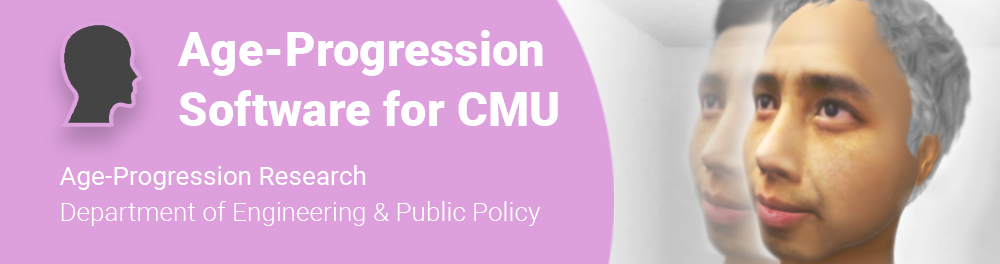
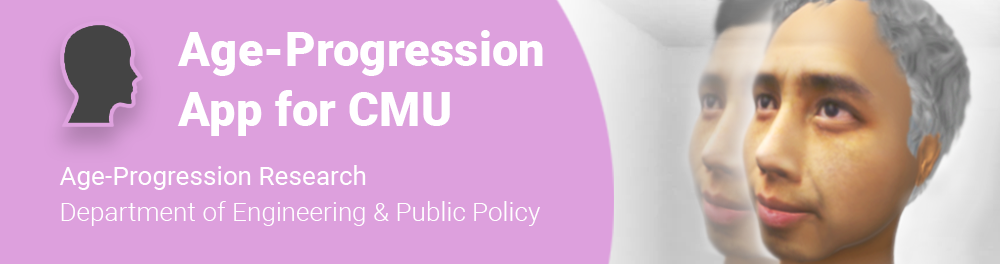
age done

Changed region(s): [[0.155, 0.3333, 0.558, 0.5152]]

diff --git a/work-age.html b/work-age.html
@@ -36,7 +36,7 @@
             <div class="work__header work__header--age">
                 <div>
                     <div class="divider"></div>
-                    <h1 class="header__work--main white">Age-Progression Research Software
+                    <h1 class="header__work--main white">Age-Progression Research App 
                     </h1>                                      
                     <h3 class="white">Department of Engineering & Public Policy, CMU</h4>  
                     <div class="divider"></div>                    
@@ -48,41 +48,31 @@
         <section class="section__home section__meta"> 
             <h1 class="header__work">My Role & Project Goal</h1>
             <p>
-                I designed and integrated a system to streamline the client’s research process, 
-                keeping in mind that it needed to be for non-technical users. 
-                It needed to build age-progression 3D assets for eventual use in a 
-                VR environment with Unity. I worked with a programmer, and a project manager.
-           
-            </p>                                     
+                <b>I designed a desktop app that allows the researchers to created 3D content for their research experiment,
+                keeping in mind that it's for non-technical users.</b>
+
+                It needed to build age-progression 3D personalized assets for eventual use in a 
+                VR environment built with Unity. I worked with a programmer, and a project manager.                    
+            </p>                
         </section>  
             
         
         <section class="section__content">
-            <div class="section__content--section" id="gmyg">                                  
+            <div class="section__content--section">                                  
                 <h1 class="header__work">Clinical Trials </h1>
                 <p>
-                    This research software is for use in hospital clinical trials. 
+                    This research app is for use in hospital clinical trials. 
                     In the trial, patients will see themselves age in VR.
                 </p>
-                
-                <!-- <div class="flexBox">
-                    <div>
-                        <iframe src="https://www.youtube.com/embed/cHpVhyQnHHI" frameborder="0" allow="autoplay; encrypted-media" allowfullscreen></iframe>
-                        <p id="img-caption">30 seconds trailer</p>
-                    </div>
-                    <div>
-                        <iframe src="https://www.youtube.com/embed/B8iuOhzfr0c" frameborder="0" allow="autoplay; encrypted-media" allowfullscreen></iframe>
-                        <p id="img-caption">Full experience at the Games for Change Festival</p>
-                    </div>
-                </div> -->
 
-                <h1 class="header__work--up">Phase 1</h1>                
+                
+                <h1 class="header__work--up">Process - Phase 1</h1>                
                 <h1 class="header__work">Building A Viable Deployment Pipeline</h1>
                 <p>
-                    The FaceGen software developed by Singular Inversions was required by the client to 
+                    The FaceGen app developed by Singular Inversions was required by the client to 
                     generate facial age progression 3D model based on other successful studies.
                 </p>
-                <p>
+                <p class="purple">
                     Our early mission was to incorporate the output of FaceGen with Oculus Go VR headset.
                 </p>
                 <p class="bold">
@@ -106,36 +96,65 @@
                 <p class="bold">Plans to create hairstyles:</p>
                 <p>I decided to generate hair by making a variety of 3D mesh hairstyles, 
                     due to processing performance, good fidelity, and reasonable development time.</p>
+                <img src="img/age/compare.png" alt="Plans Compare">
+
                 <p>After I decided how to create the hairstyles, the pipeline became clear. 
-                    I needed to create a software to load the 3D head model from FaceGen, 
+                    I needed to create a app to load the 3D head model from FaceGen, 
                     attach the hairstyle, then push the final model to the Oculus Go.</p>
+                <img src="img/age/pipeline.png" alt="pipeline">
+
                 <h1 class="header__work--up">Phase 2</h1>
                 <h1 class="header__work">Building The Core Functions</h1>
                 <p>
-                    The 3 core functions of this software are:
+                    The 3 core functions of this app are:
+                </p>
+                <img src="img/age/functions.png" alt="functions">
+
+
+                <h1 class="header__work">User Interface Layout</h1>                            
+                <img src="img/age/UILayout.png" alt="UI Layout"> 
+                
+                <div class="flexBox">
+                        <div>
+                            <img src="img/age/load model.gif" alt="Load Model">
+                            <p id="img-caption">Load the head model & Rotate</p>
+                        </div>
+                        <div>
+                            <img src="img/age/select hair.gif" alt="Select Hair">
+                            <p id="img-caption">Select hairstyles</p>
+                        </div>
+                        <div>
+                            <img src="img/age/hair color.gif" alt="Select Hair Color">
+                            <p id="img-caption">Change hair colors & grey hair level</p>
+                        </div>
+                </div>
+
+                <h1 class="header__work--sub">Hairstyles</h1>
+                <p>I created 9 short hairstyles, 7 long hairstyles in Maya, and itergrated with the app by optimizing the textures, and transformational data.
                 </p>
 
-                <h1 class="header__work">User Interface & Flow</h1>                            
-                <img src="img/gmyg/gun-flow_2.png" alt="Flow">                
+                <img src="img/age/hairstyles.png" alt="Hairstyles">                
+
                
-                <h1 class="header__work">Design Iterations</h1>
+                <h1 class="header__work--sub">Design Iterations</h1>
+                <p>I iterated the design based on researchers' feedback through the usability tests.</p>
                
-                <img src="img/gmyg/gun-serviceBlue.png" alt="Service Blueprint">
+                <img src="img/age/iterations.png" alt="Iterations">
 
                 <h1 class="header__work--up">Phase 3</h1>                
                 <h1 class="header__work">Final Result In Oculus Go</h1>
                 <p>Our client wanted a simple VR experience that simulates looking into 
                     a mirror with the natural scape background.</p>
-                <div class="flexBox">
-                        <div>
-                            <img src="img/gmyg/half-sheet.png" alt="card">
-                            <p id="img-caption">Game card</p>
-                        </div>
-                        <div>
-                            <img src="img/gmyg/game-poster_orig.jpg" alt="card">
-                            <p id="img-caption">Game poster</p>
-                        </div>                        
-                </div>              
+                <p class="bold">
+                    Interaction: The mirror will follow along with the head movement.
+                </p>
+                <img src="img/age/vr_compressed.gif" alt="VR mirror">
+                <h1 class="header__work--sub">Other interaction workarounds with controllers</h1>
+                <p> I created and pitched these VR interaction mockups to the client to show how a 3D head could be displayed in the Oculus Go. In the end, the client wanted a simple option that wouldn’t need any controllers. This was because they wanted to eliminate any friction in the patient on boarding that might distract from the core of their clinical trial process.
+                </p>
+
+                <img src="img/age/vr_ideas.png" alt="vr_ideas">
+               
 
                 <h1 class="header__work">Lesson Learned</h1>
                 <h1 class="header__work--sub">Design perspective:</h1>
@@ -182,7 +201,7 @@
         
         <section class="section__page">
             <div class="section__page--box">
-                <a href="work-instant-musician.html">
+                <a href="work-gmyg.html">
                     <svg class="social-btn">
                         <use xlink:href="img/sprite.svg#icon-triangle-left"></use>
                     </svg>

diff --git a/work-gmyg.html b/work-gmyg.html
@@ -266,7 +266,7 @@
                         <use xlink:href="img/sprite.svg#icon-grid"></use>
                     </svg>
                 </a>
-                <a href="work-design-ideas.html">
+                <a href="work-age.html">
                     <svg class="social-btn">
                         <use xlink:href="img/sprite.svg#icon-triangle-right"></use>
                     </svg>

diff --git a/css/style.css b/css/style.css
@@ -356,10 +356,10 @@ p a {
 
 #img-caption {
   text-align: center;
-  font-size: 1.3rem;
+  font-size: 1.5rem;
   font-weight: 500;
   letter-spacing: 0;
-  margin-top: -1rem; }
+  margin-top: -4rem; }
 
 .footer__credit {
   font-weight: 300;

diff --git a/sass/base/_typography.scss b/sass/base/_typography.scss
@@ -222,10 +222,10 @@ p a {
 
 #img-caption {
     text-align: center;
-    font-size: 1.3rem;
+    font-size: 1.5rem;
     font-weight: 500;
     letter-spacing: 0;
-    margin-top: -1rem;     
+    margin-top: -4rem;     
 }
 
 
